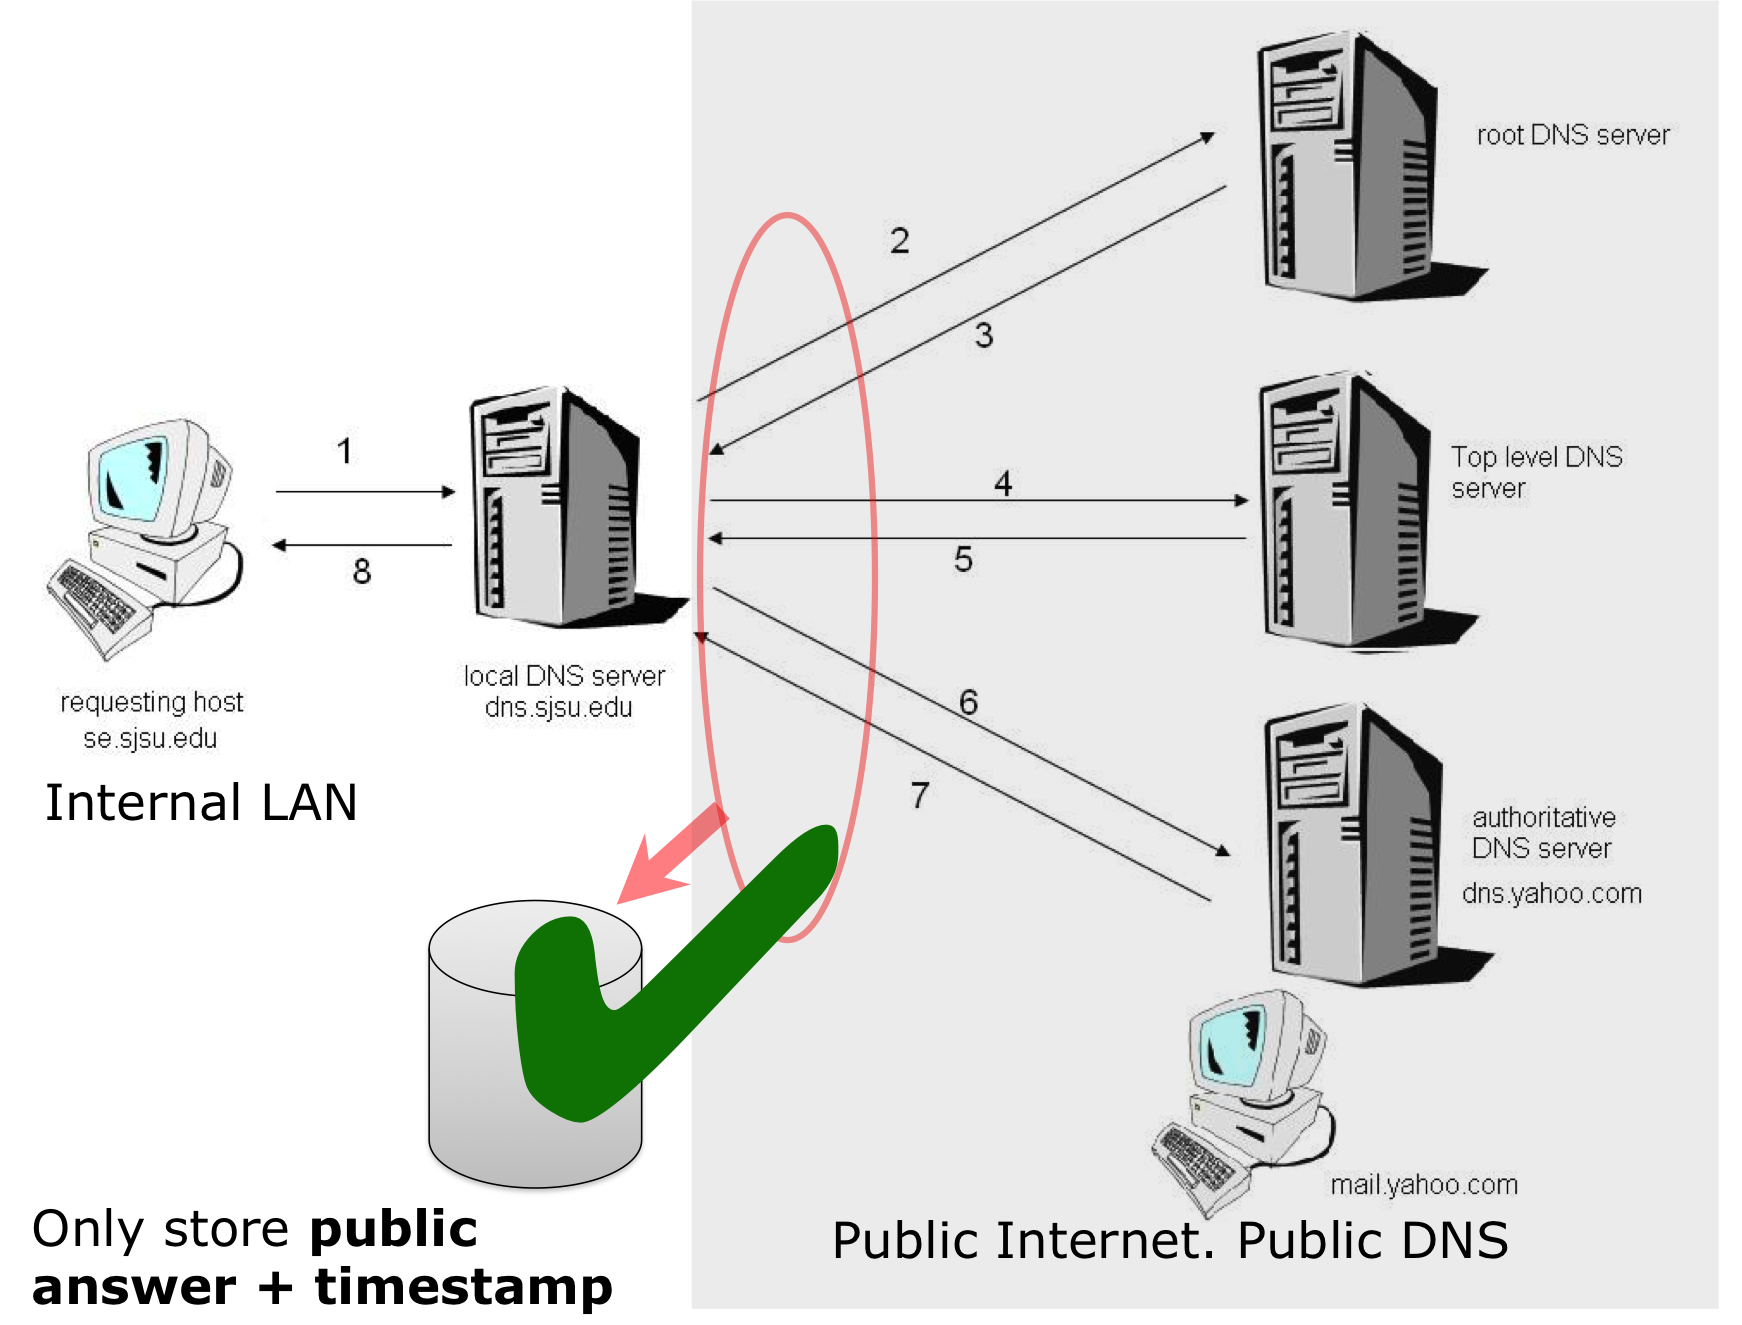
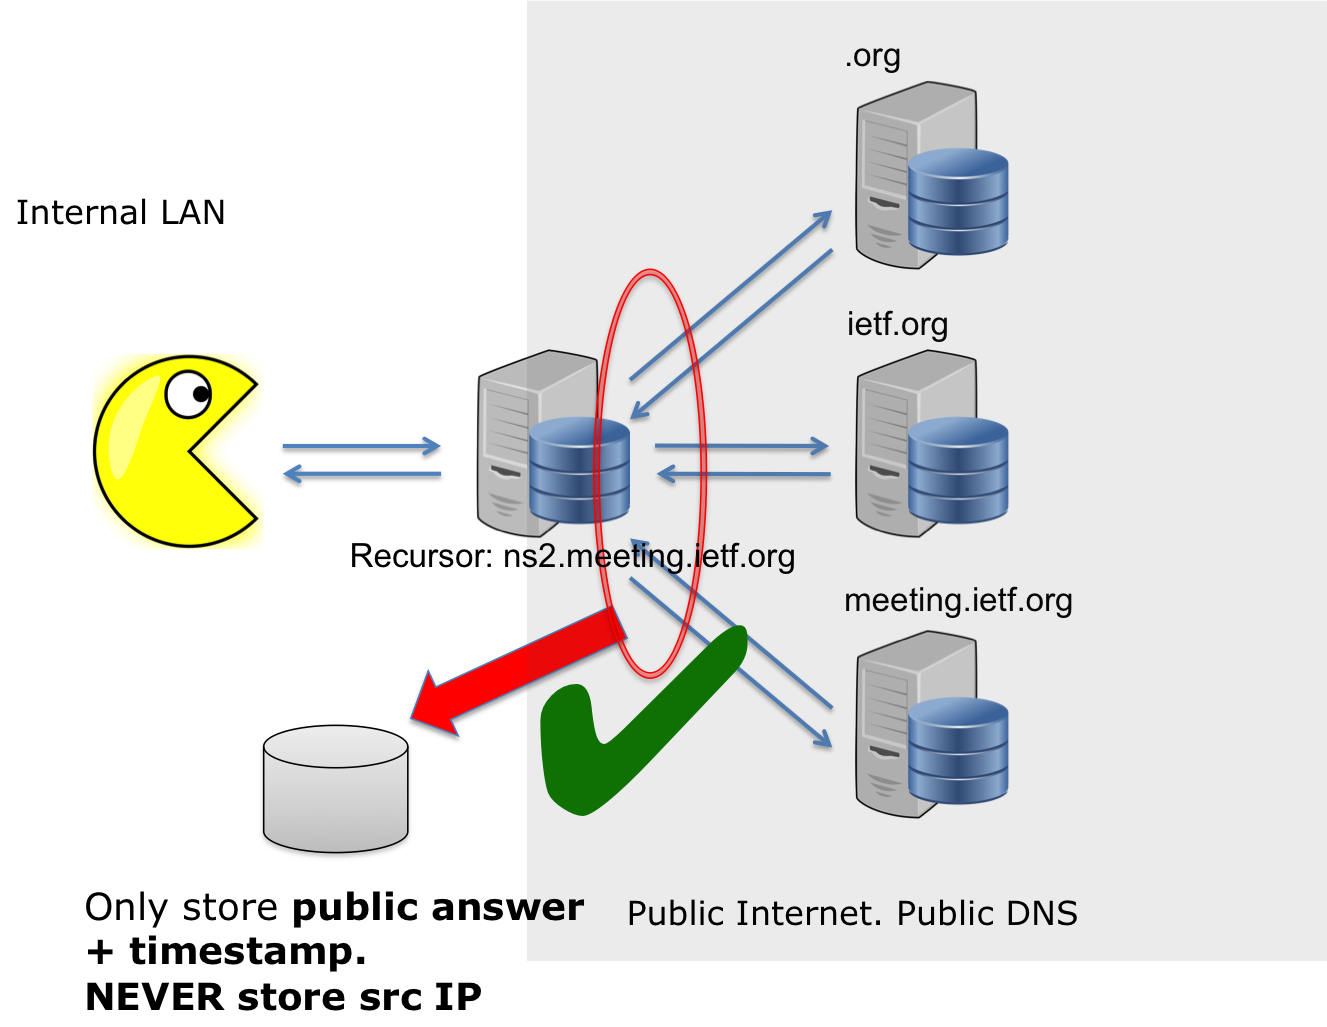
re-do pictures

diff --git a/slides/ietf-89/content.tex b/slides/ietf-89/content.tex
@@ -18,10 +18,10 @@
 \end{frame}
 
 
-\begin{frame}[t]{pre-recursor passive DNS: store-everything-that-you-can approach (Cisco implementation)}
+\begin{frame}[t]{pre-recursor passive DNS: store-everything-that-you-can approach (potential privacy problem)}
 \begin{centering}
   \vbox{}\vfill
-  \includegraphics[scale=0.25]{pre-recursor.png}
+  \includegraphics[scale=0.3]{pre-recursor.png}
   \vfill
 \end{centering}
 \end{frame}
@@ -32,15 +32,17 @@
 \end{itemize}
 \begin{centering}
   \vbox{}\vfill
-  \includegraphics[scale=0.24]{post-recursor.png}
+  \includegraphics[scale=0.3]{post-recursor.png}
   \vfill
 \end{centering}
 \end{frame}
 
-\begin{frame}[t]{Why pDNS? Answer which Questions?}
+\begin{frame}[t]{Why pDNS? Answers which questions?}
 \begin{itemize}
+\item For example:
 \item Historic data: ,,What was the A record for a certain FQDN last year?''
 \item Inverse Lookups: ,,Which domains have A records that are in a given address range?''
+\item Egypt goes offline: ,,Which domains are offline because all their nameservers are in egyptian IP space?''
 \item Generic reseach on bulk DNS data: T. Frosch, T. Holz: ,,Predentifier: Detecting Botnet C\&C Domains From Passive DNS Data''
 \item The first time, we can get a sampled subset of \emph{the DNS} per se. I.e.: what is actually out there?
 \end{itemize}
@@ -50,7 +52,7 @@
 \begin{itemize}
 \item Nowadays Passive DNS servers are created\footnote{To our knowledge, there are more than 15 software implementations} and used worldwide
 \item DNS data is very \emph{localized}. It makes sense to have multiple, local DBs (different legal environments, access rights, restrictions to data,...)
-\item ... but that means we need a way to query multiple DBs.
+\item ... but that means we need a way to \emph{query multiple DBs}.
 \item In 2011, we started to work on a \emph{common output format} for Passive DNS systems at the FIRST annual conference
 \item After discussions with many authors of passive DNS, version 02 of the internet-draft is published
 \end{itemize}
